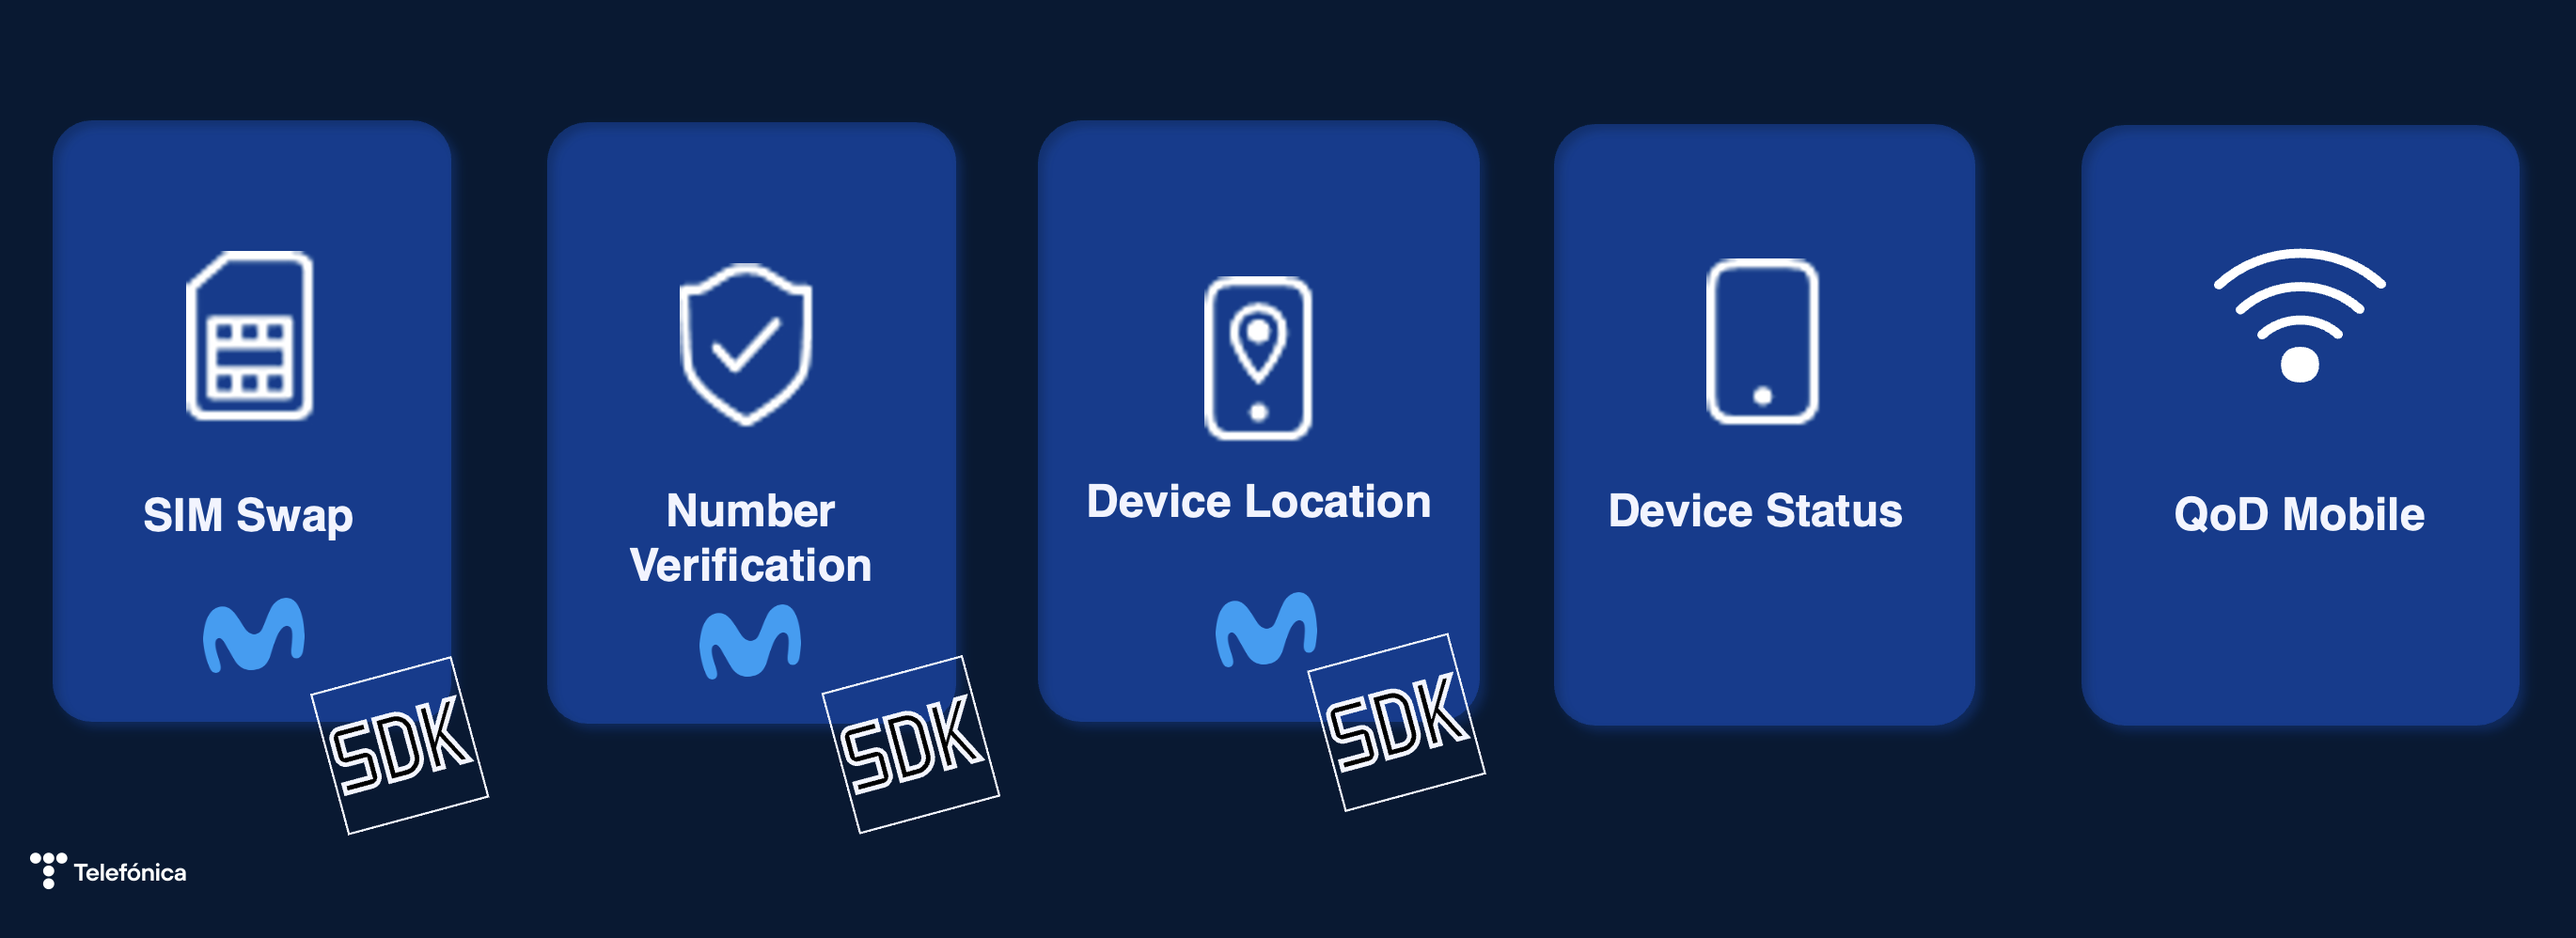
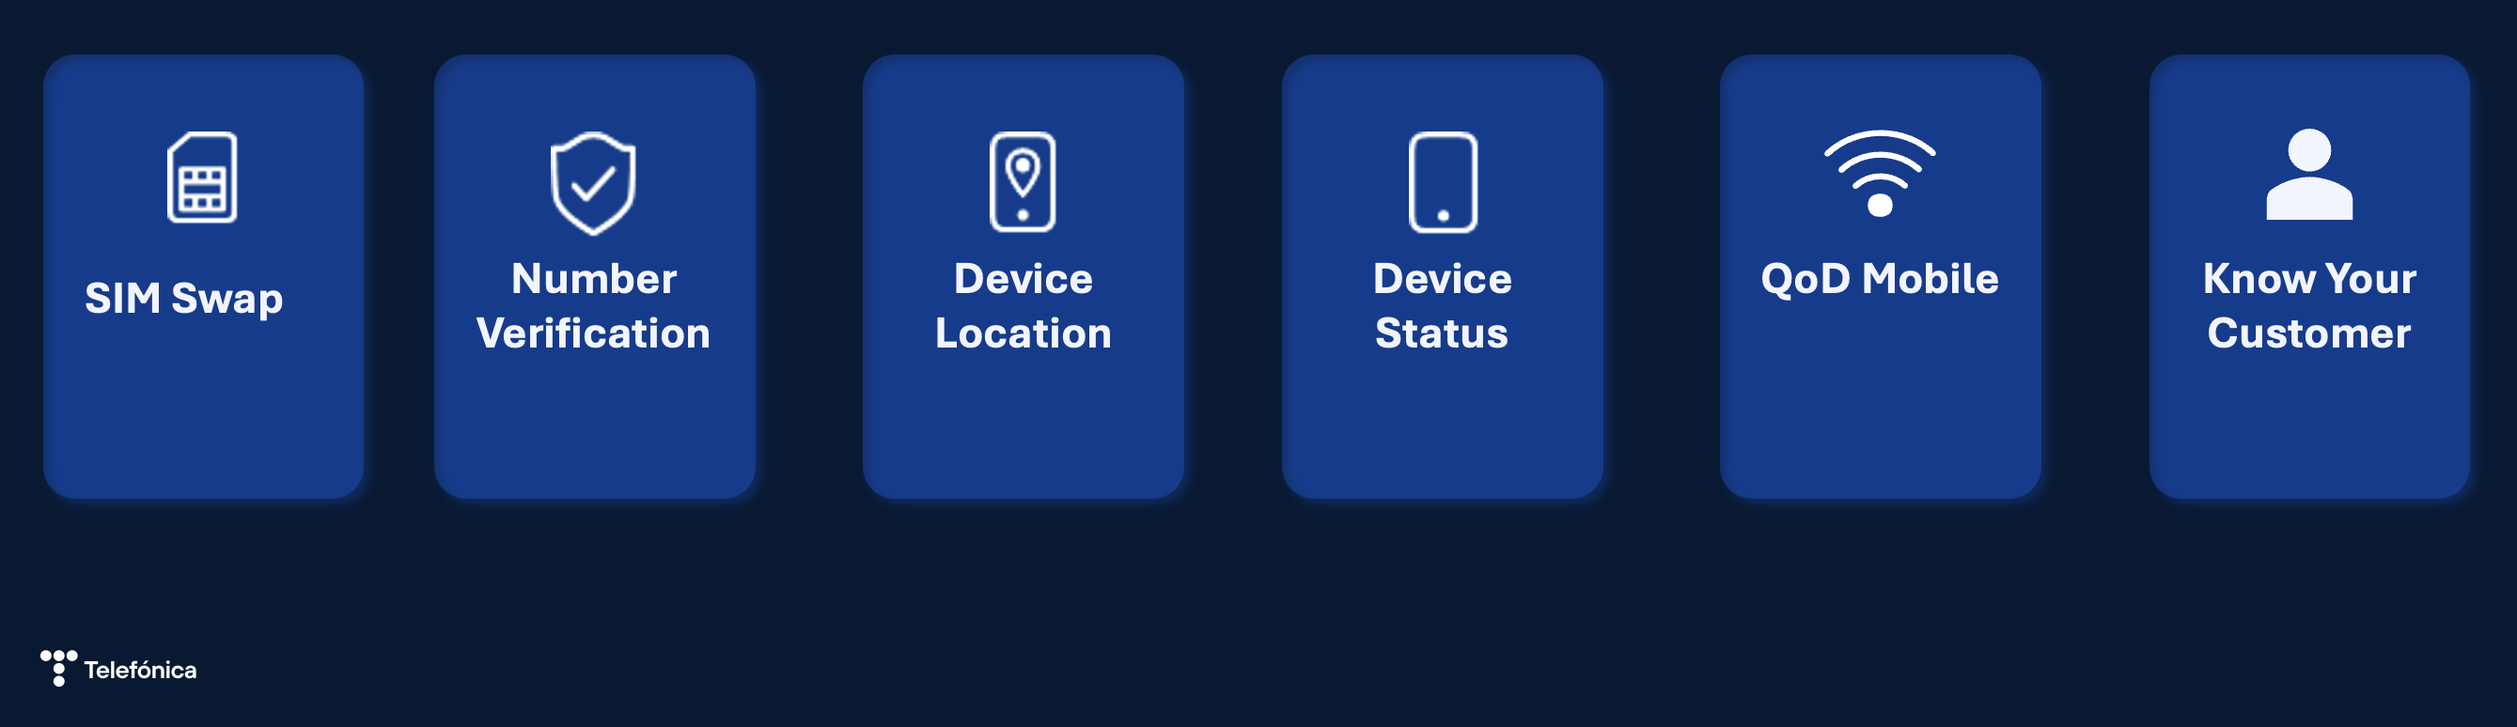
Changed name commercially available and technical

diff --git a/catalog/available.md b/catalog/available.md
@@ -10,7 +10,7 @@ Open Gateway enables software developers to leverage Telco Application Programmi
 
 Open Gateway utilizes these Telco APIs to offer a unified standard interface across multiple operator networks worldwide, abstracting the inherent complexities associated with their systems and infrastructures. This approach simplifies integration and enhances interoperability for developers and applications alike.
 
-![available_apis](https://github.com/Telefonica/opengateway-developers-website/raw/main/images/available_apis.png)
+![available_apis](https://github.com/Telefonica/opengateway-developers-website/raw/main/catalog/images/available_apis.png)
 
 ## Technical Description of Open Gateway APIs
 
@@ -28,7 +28,9 @@ Open Gateway APIs implement robust security and authentication mechanisms to pro
 
 ## Commercially available APIs
 
-As the Open Gateway Channel Partners start aggregating the APIs from the operators, the following APIs are already available in some regions for developers to use:
+The following APIs are already commercially available in some regions for developers to use through our Channel Partners. For seamless integration and access to our services, please contact our authorized aggregation partners.
+
+<a href="https://opengateway.telefonica.com/en/partner-program" target="_blank">Check the benefits of joining the Telefónica Open Gateway Partner Program</a>
 
 ### SIM Swap
 
@@ -39,6 +41,10 @@ Additionally, the SIM Swap's Unified API Access feature ensures access to networ
 ### Number Verification API
 
 The standardized Number Verification API enhances the security of your users' identities and credentials. This API provides a quick, convenient, reliable, and secure method for verifying user information, ensuring robust protection against unauthorized access.
+
+## Technically available APIs
+
+The following APIs are available for testing and can be accessed in mock or production mode in certain regions. This setup allows for evaluating functionality and integration in a controlled environment.
 
 ### Device location
 
@@ -55,3 +61,7 @@ Again, this API enables use cases around specific services related to the end-us
 ### Quality on Demand Mobile (QoD Mobile) API
 
 The standardized QoD Mobile API allows you to manage and control your customers' mobile connectivity. This capability enables you to focus on creating the best possible user experiences, ensuring optimal performance and reliability for mobile applications.
+
+### Know Your Customer (KYC) API
+
+The standardized Know Your Customer (KYC) API enables real-time verification of customer information, providing an efficient way to validate the authenticity of personal data provided by users. By leveraging this API, businesses can mitigate risks associated with identity fraud, and enhance overall customer trust.
